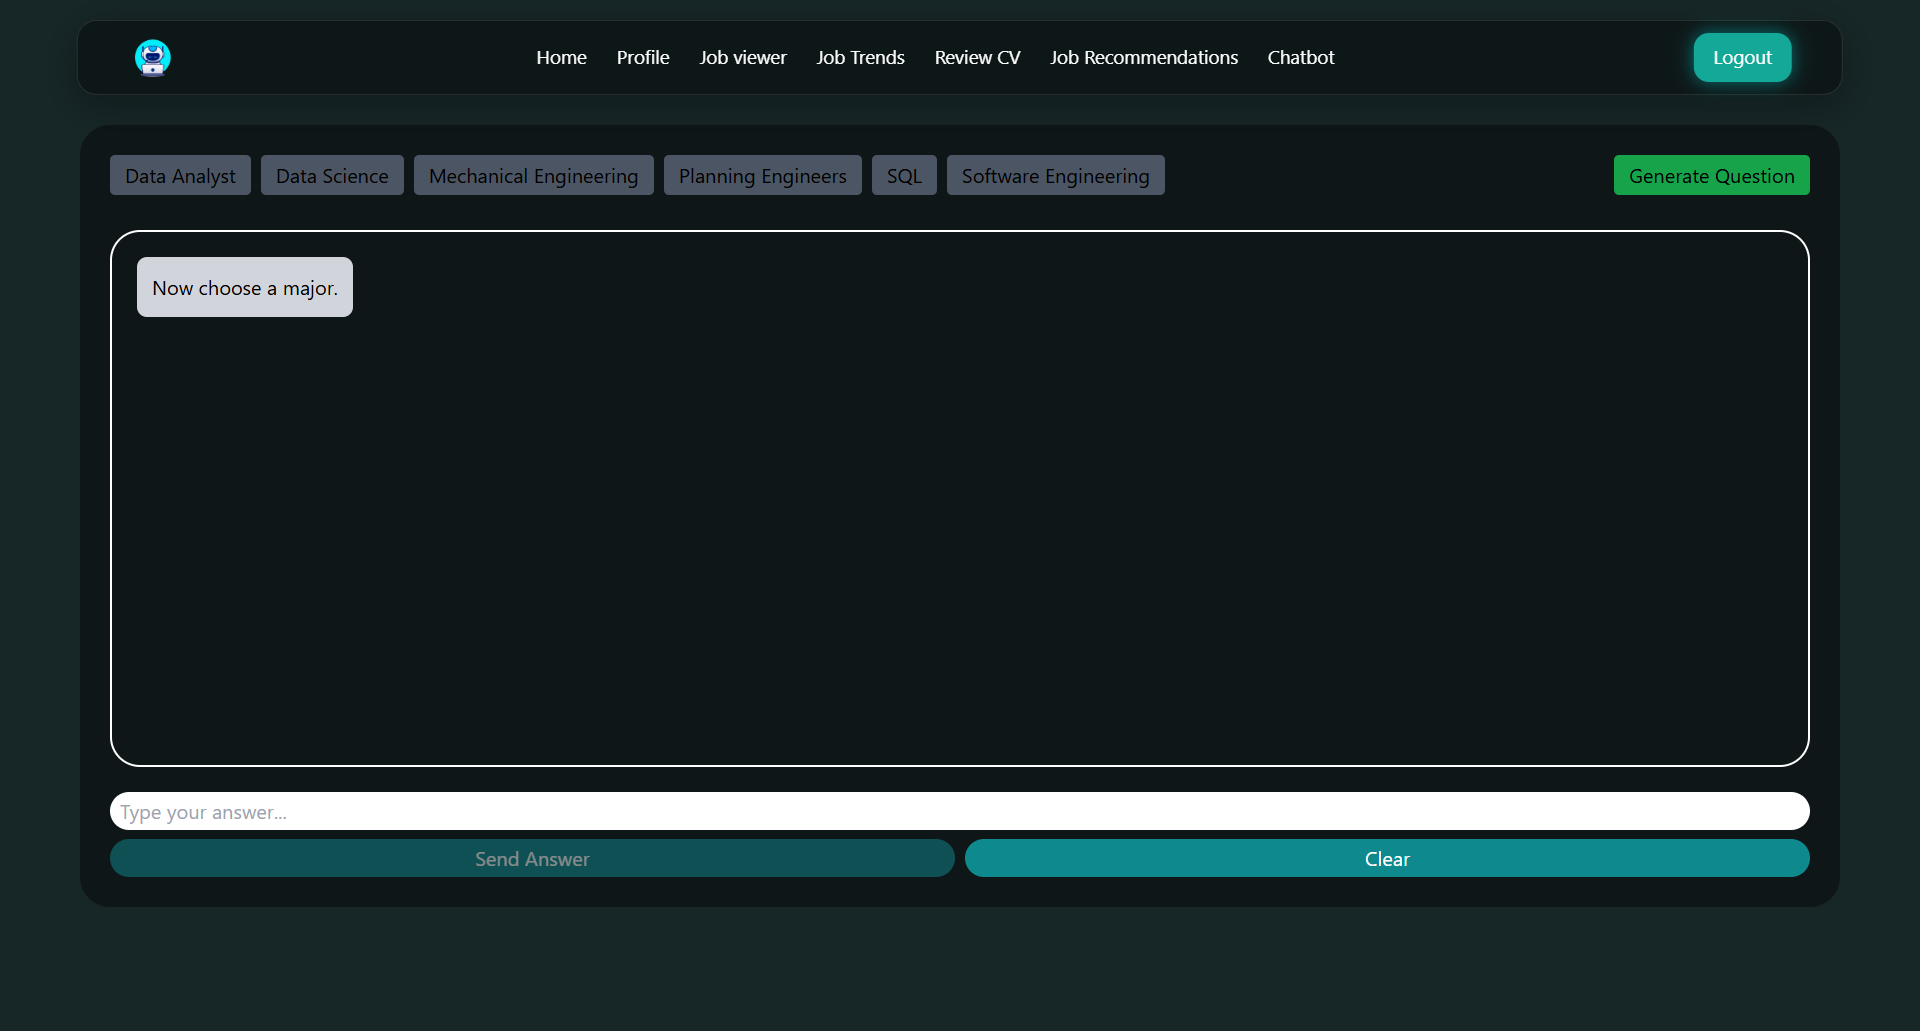
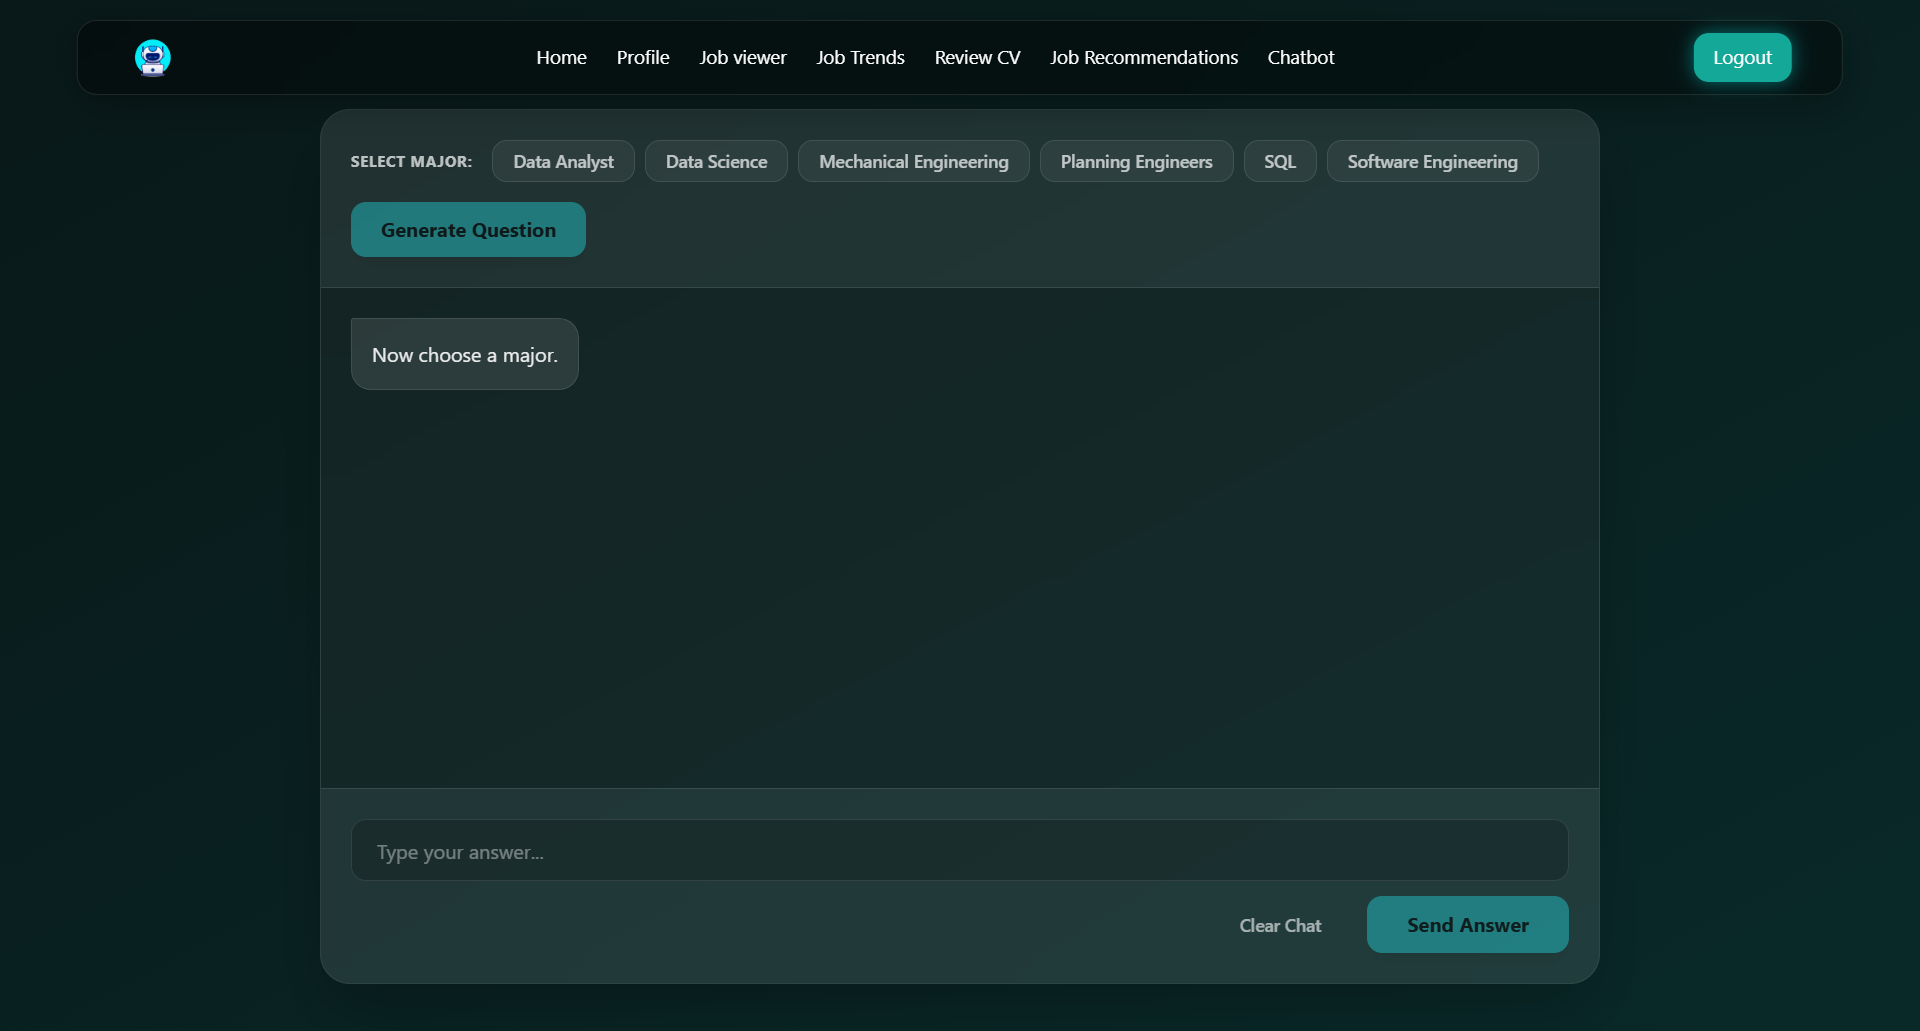
chatbot ui edit

Changed region(s): [[0.0312, 0.1242, 0.9688, 0.4035], [0.0312, 0.7449, 0.9688, 0.9311]]

diff --git a/src/pages/Chatbot.jsx b/src/pages/Chatbot.jsx
@@ -1,4 +1,4 @@
-import React, { useState, useEffect } from 'react'
+import React, { useState, useEffect, useRef } from 'react'
 import Loadingpage from './Loadingpage'
 
 const Chatbot = () => {
@@ -10,8 +10,18 @@ const Chatbot = () => {
     const [sources, setSources] = useState([])
     const [selectedSource, setSelectedSource] = useState(null)
 
+    // Scroll ref
+    const messagesEndRef = useRef(null)
+    const scrollToBottom = () => {
+        messagesEndRef.current?.scrollIntoView({ behavior: "smooth" })
+    }
+
+    useEffect(() => {
+        scrollToBottom()
+    }, [messages, loading])
+
     setTimeout(() => {
-        setLoadingP(false)
+        loadingP && setLoadingP(false)
     }, 2000);
 
     useEffect(() => {
@@ -21,11 +31,11 @@ const Chatbot = () => {
                 if (!res.ok) throw new Error("Failed to fetch sources")
                 const data = await res.json()
                 setSources(data)
-                setMessages ((prev) => [...prev, { sender : "bot" , text :"Now choose a major" }])
+                setMessages((prev) => [...prev, { sender: "bot", text: "Now choose a major" }])
             } catch (err) {
                 console.log(err)
                 setMessages((prev) => [...prev, { sender: "bot", text: "Error fetching sources. Please try again later." }])
-            } 
+            }
         }
         fetchSources()
     }, [])
@@ -36,6 +46,7 @@ const Chatbot = () => {
     }
 
     const selectSource = async (sourceName) => {
+        setLoading(true)
         try {
             console.log(`Attempting to select source: ${sourceName}`);
             const res = await fetch("https://hema01-chatbot-simulation-interview.hf.space/api/select_source", {
@@ -47,7 +58,6 @@ const Chatbot = () => {
             if (res.ok) {
                 setSelectedSource(sourceName);
                 setMessages((prev) => [...prev, { sender: "bot", text: `Selected source: ${sourceName}, You can now generate a question.` }]);
-                console.log(`Source successfully selected: ${sourceName}, You can now generate a question.`);
             } else {
                 const errorData = await res.json();
                 console.error("Error selecting source:", errorData);
@@ -58,28 +68,29 @@ const Chatbot = () => {
             console.error("Error in selectSource function:", err);
             setMessages((prev) => [...prev, { sender: "bot", text: "Error selecting source. Please try again." }]);
             setLoading(false)
-        } 
+        }
     }
 
     const generateQuestion = async () => {
         if (!selectedSource) {
-            setMessages((prev) => [...prev, { sender:"bot", text:"Please select a source first." }])
+            setMessages((prev) => [...prev, { sender: "bot", text: "Please select a source first." }])
             return
         }
+        setLoading(true)
         try {
             const res = await fetch("https://hema01-chatbot-simulation-interview.hf.space/api/generate_question")
             const data = await res.json()
-            setMessages((prev) => [...prev, { sender:"bot", text:data.question || "No question generated." }])
+            setMessages((prev) => [...prev, { sender: "bot", text: data.question || "No question generated." }])
             setLoading(false)
         } catch (err) {
             console.log(err)
             setLoading(false)
-        } 
+        }
     }
 
     const submitAnswer = async () => {
         if (!input.trim()) return
-        const userMsg = { sender:'user', text:input }
+        const userMsg = { sender: 'user', text: input }
         setMessages((prev) => [...prev, userMsg])
         setinput("")
         setLoading(true)
@@ -90,19 +101,19 @@ const Chatbot = () => {
                 body: JSON.stringify({ answer: input })
             })
             const data = await res.json()
-            const botMsg = { 
-                sender:"bot", 
-                text: data.feedback ? `${data.feedback}\nScore: ${data.score}, Please clear the chat and start over.` : "No evaluation received." 
-            } 
+            const botMsg = {
+                sender: "bot",
+                text: data.feedback ? `${data.feedback}\nScore: ${data.score}, Please clear the chat and start over.` : "No evaluation received."
+            }
             setLoading(false)
             setMessages((prev) => [...prev, botMsg])
         } catch (err) {
             console.log(err)
-            setMessages((prev) => [...prev, { sender:"bot", text:"Error getting response. Try again." }])
+            setMessages((prev) => [...prev, { sender: "bot", text: "Error getting response. Try again." }])
             setLoading(false)
-        } 
+        }
     }
-    
+
 
     const handleKeyDown = (e) => {
         if (e.key === "Enter") {
@@ -112,72 +123,108 @@ const Chatbot = () => {
     }
 
     return (
-        <section className='relative min-h-[100vh] bg-pri px-4 pb-4 pt-[80px] md:px-16 md:pb-16 md:pt-[100px] flex items-center flex-col content-center'>
-      {loadingP && (
-        <Loadingpage />
-      )}
+        <section className='relative min-h-screen bg-gradient-to-br from-[#091818] to-[#092929] text-white flex items-center justify-center p-4 md:p-8 font-sans overflow-hidden'>
 
-      <div className='w-full h-[calc(100vh-100px)] md:h-[625px] bg-[#0e1617] rounded-3xl p-4 md:p-6 gap-3 md:gap-5 flex flex-col relative my-auto'>
-        
-        {/* Header Section */}
-        <div className='mb-2 flex flex-col md:flex-row justify-between gap-3 md:gap-0'>
-          <div className='flex gap-2 flex-wrap'> 
-          {sources.map((src, i) => (
-            <button key={i} onClick={() => {selectSource(src); setLoading(true)}} className={`px-3 py-1 text-sm md:text-base rounded ${selectedSource===src ? "bg-[#0e898e]" : "bg-gray-600"}`}>
-              {src}
-            </button>
-          ))}
-          </div>
-          <button onClick={generateQuestion} className='px-3 py-2 md:py-1 bg-green-600 rounded w-full md:w-auto text-sm md:text-base'>Generate Question</button>
-        </div>
+            <div className='w-full max-w-5xl h-[85vh] md:h-[700px] bg-white/5 backdrop-blur-xl border mt-12 border-white/10 rounded-3xl shadow-2xl flex flex-col relative z-10 overflow-hidden'>
 
-        {/* Chat Area: flex-1 allows it to fill remaining space instead of fixed height */}
-        <div className='w-full flex-1 border-solid border-white border-[2px] rounded-3xl p-3 md:p-5 overflow-auto'>
-          {messages.map((msg, index) => (
-            <div key={index} className={`flex ${msg.sender === 'user' ? 'justify-end' : 'justify-start'} mb-2`}>
-              <div className={`p-3 rounded-lg max-w-[85%] break-words ${msg.sender === 'user' ? 'bg-sec text-white' : 'bg-gray-300 text-black'}`}>
-                {msg.text}
-              </div>
-            </div> 
-          ))}
-          { loading && 
-            <div className={`flex justify-start mb-2 mt-3 ml-1`}>
-              <div className={`w-2 h-2 rounded-full bg-gray-300 text-black animate-ping`}>
-              
-              </div>
-            </div> 
-          }
-        </div>
+                {/* --- Header Section --- */}
+                <div className='p-4 md:p-6 bg-white/5 border-b border-white/10 flex flex-col gap-4'>
+                    
+                    {/* Source Chips */}
+                    <div className='flex flex-wrap gap-2 items-center'>
+                        <span className="text-xs text-white/70 font-bold uppercase tracking-wider mr-2">Select Major:</span>
+                        {sources.map((src, i) => (
+                            <button
+                                key={i}
+                                onClick={() => { selectSource(src) }}
+                                disabled={loading}
+                                className={`px-4 py-1.5 text-sm rounded-xl transition-all duration-300 border font-medium ${
+                                    selectedSource === src
+                                        // Active State: واخد لون السيان المميز
+                                        ? "bg-[#20bec4]/20 border-[#20bec4] text-[#20bec4] shadow-[0_0_10px_rgba(32,190,196,0.2)]"
+                                        // Inactive State: واخد ستايل شفاف
+                                        : "bg-white/5 border-white/10 text-white/70 hover:bg-white/10 hover:text-white"
+                                }`}
+                            >
+                                {src}
+                            </button>
+                        ))}
+                    </div>
 
-        {/* Footer / Input Section */}
-        <div className='flex flex-col gap-2'>
-          <div className='flex items-center contain-content gap-2'>
-          <input
-          className='w-full h-[35px] md:h-[30px] p-2 rounded-3xl border-none focus:border-none text-black' 
-          type="text"
-          name='massage'
-          placeholder="Type your answer..."
-          value={input}
-          onChange={(e) => setinput(e.target.value)}
-          onKeyDown={handleKeyDown}
-          />
-          </div>
-          <div className='flex gap-2'>
-          <button 
-          onClick={submitAnswer} 
-          className={`w-full h-[35px] md:h-[30px] text-[14px] md:text-[16px] text-white bg-[#0e898e] rounded-3xl hover:bg-[#172627] transition-all ease-in duration-300 ${!input.trim() ? 'opacity-50 cursor-not-allowed' : ''}`} 
-          disabled={!input.trim()}>
-            Send Answer
-          </button>
-            <button 
-            onClick={clearChat} 
-            className='w-full h-[35px] md:h-[30px] text-[14px] md:text-[16px] text-white bg-[#0e898e] rounded-3xl hover:bg-[#172627] transition-all ease-in duration-300' >
-            Clear
-            </button>
-          </div>
-        </div>
-      </div>
-    </section>
+                    {/* Generate Button: نفس ستايل زرار Start Exploring */}
+                    <button
+                        onClick={generateQuestion}
+                        disabled={loading || !selectedSource}
+                        className={`w-full md:w-auto self-start px-6 py-2.5 bg-[#20bec4] hover:bg-[#169ba0] text-black font-bold rounded-xl shadow-lg transition-all active:scale-95 disabled:opacity-50 disabled:cursor-not-allowed flex items-center justify-center gap-2`}
+                    >
+                        <span>Generate Question</span>
+                    </button>
+                </div>
+
+                {/* --- Chat Area --- */}
+                <div className='flex-1 overflow-y-auto p-4 md:p-6 space-y-4 bg-black/10'>
+                    {messages.map((msg, index) => (
+                        <div key={index} className={`flex w-full ${msg.sender === 'user' ? 'justify-end' : 'justify-start'}`}>
+                            <div className={`
+                                max-w-[85%] md:max-w-[70%] p-4 rounded-2xl text-sm md:text-base leading-relaxed shadow-sm
+                                ${msg.sender === 'user'
+                                    // User Message: واخد لون السيان مع نص أسود لتباين عالي زي زرار الموقع
+                                    ? 'bg-[#20bec4] text-black font-medium rounded-tr-sm' 
+                                    // Bot Message: واخد ستايل شفاف غامق
+                                    : 'bg-white/10 text-white/90 border border-white/10 rounded-tl-sm'} 
+                            `}>
+                                <p className="whitespace-pre-wrap">{msg.text}</p>
+                            </div>
+                        </div>
+                    ))}
+
+                    {/* Loading Animation */}
+                    {loading &&
+                        <div className="flex justify-start w-full animate-pulse">
+                            <div className="bg-white/10 p-4 rounded-2xl rounded-tl-sm border border-white/10 flex gap-2 items-center">
+                                <div className="w-2 h-2 bg-[#20bec4] rounded-full animate-bounce"></div>
+                                <div className="w-2 h-2 bg-[#20bec4] rounded-full animate-bounce delay-100"></div>
+                                <div className="w-2 h-2 bg-[#20bec4] rounded-full animate-bounce delay-200"></div>
+                            </div>
+                        </div>
+                    }
+                    <div ref={messagesEndRef} />
+                </div>
+
+                {/* --- Footer / Input Section --- */}
+                <div className='p-4 md:p-6 bg-white/5 border-t border-white/10 flex flex-col gap-3'>
+                    <div className='relative flex items-center gap-3'>
+                        <input
+                            className='w-full h-[50px] pl-5 pr-4 bg-black/20 border border-white/10 rounded-xl text-white placeholder-white/40 focus:outline-none focus:border-[#20bec4] focus:ring-1 focus:ring-[#20bec4] transition-all'
+                            type="text"
+                            name='massage'
+                            placeholder="Type your answer..."
+                            value={input}
+                            onChange={(e) => setinput(e.target.value)}
+                            onKeyDown={handleKeyDown}
+                        />
+                    </div>
+                    
+                    <div className='flex gap-3 justify-end'>
+                         <button
+                            onClick={clearChat}
+                            className='px-6 py-2 h-[45px] text-sm font-medium text-white/60 hover:text-red-400 transition-colors rounded-xl hover:bg-white/5 border border-transparent hover:border-white/10'
+                        >
+                            Clear Chat
+                        </button>
+
+                        <button
+                            onClick={submitAnswer}
+                            disabled={!input.trim()}
+                            // Send Button: نفس ستايل زرار Start Exploring
+                            className={`px-8 py-2 h-[45px] text-black font-bold bg-[#20bec4] hover:bg-[#169ba0] rounded-xl shadow-lg transition-all ease-in duration-200 ${!input.trim() ? 'opacity-50 cursor-not-allowed' : ''}`}
+                        >
+                            Send Answer
+                        </button>
+                    </div>
+                </div>
+            </div>
+        </section>
     )
 }
 
